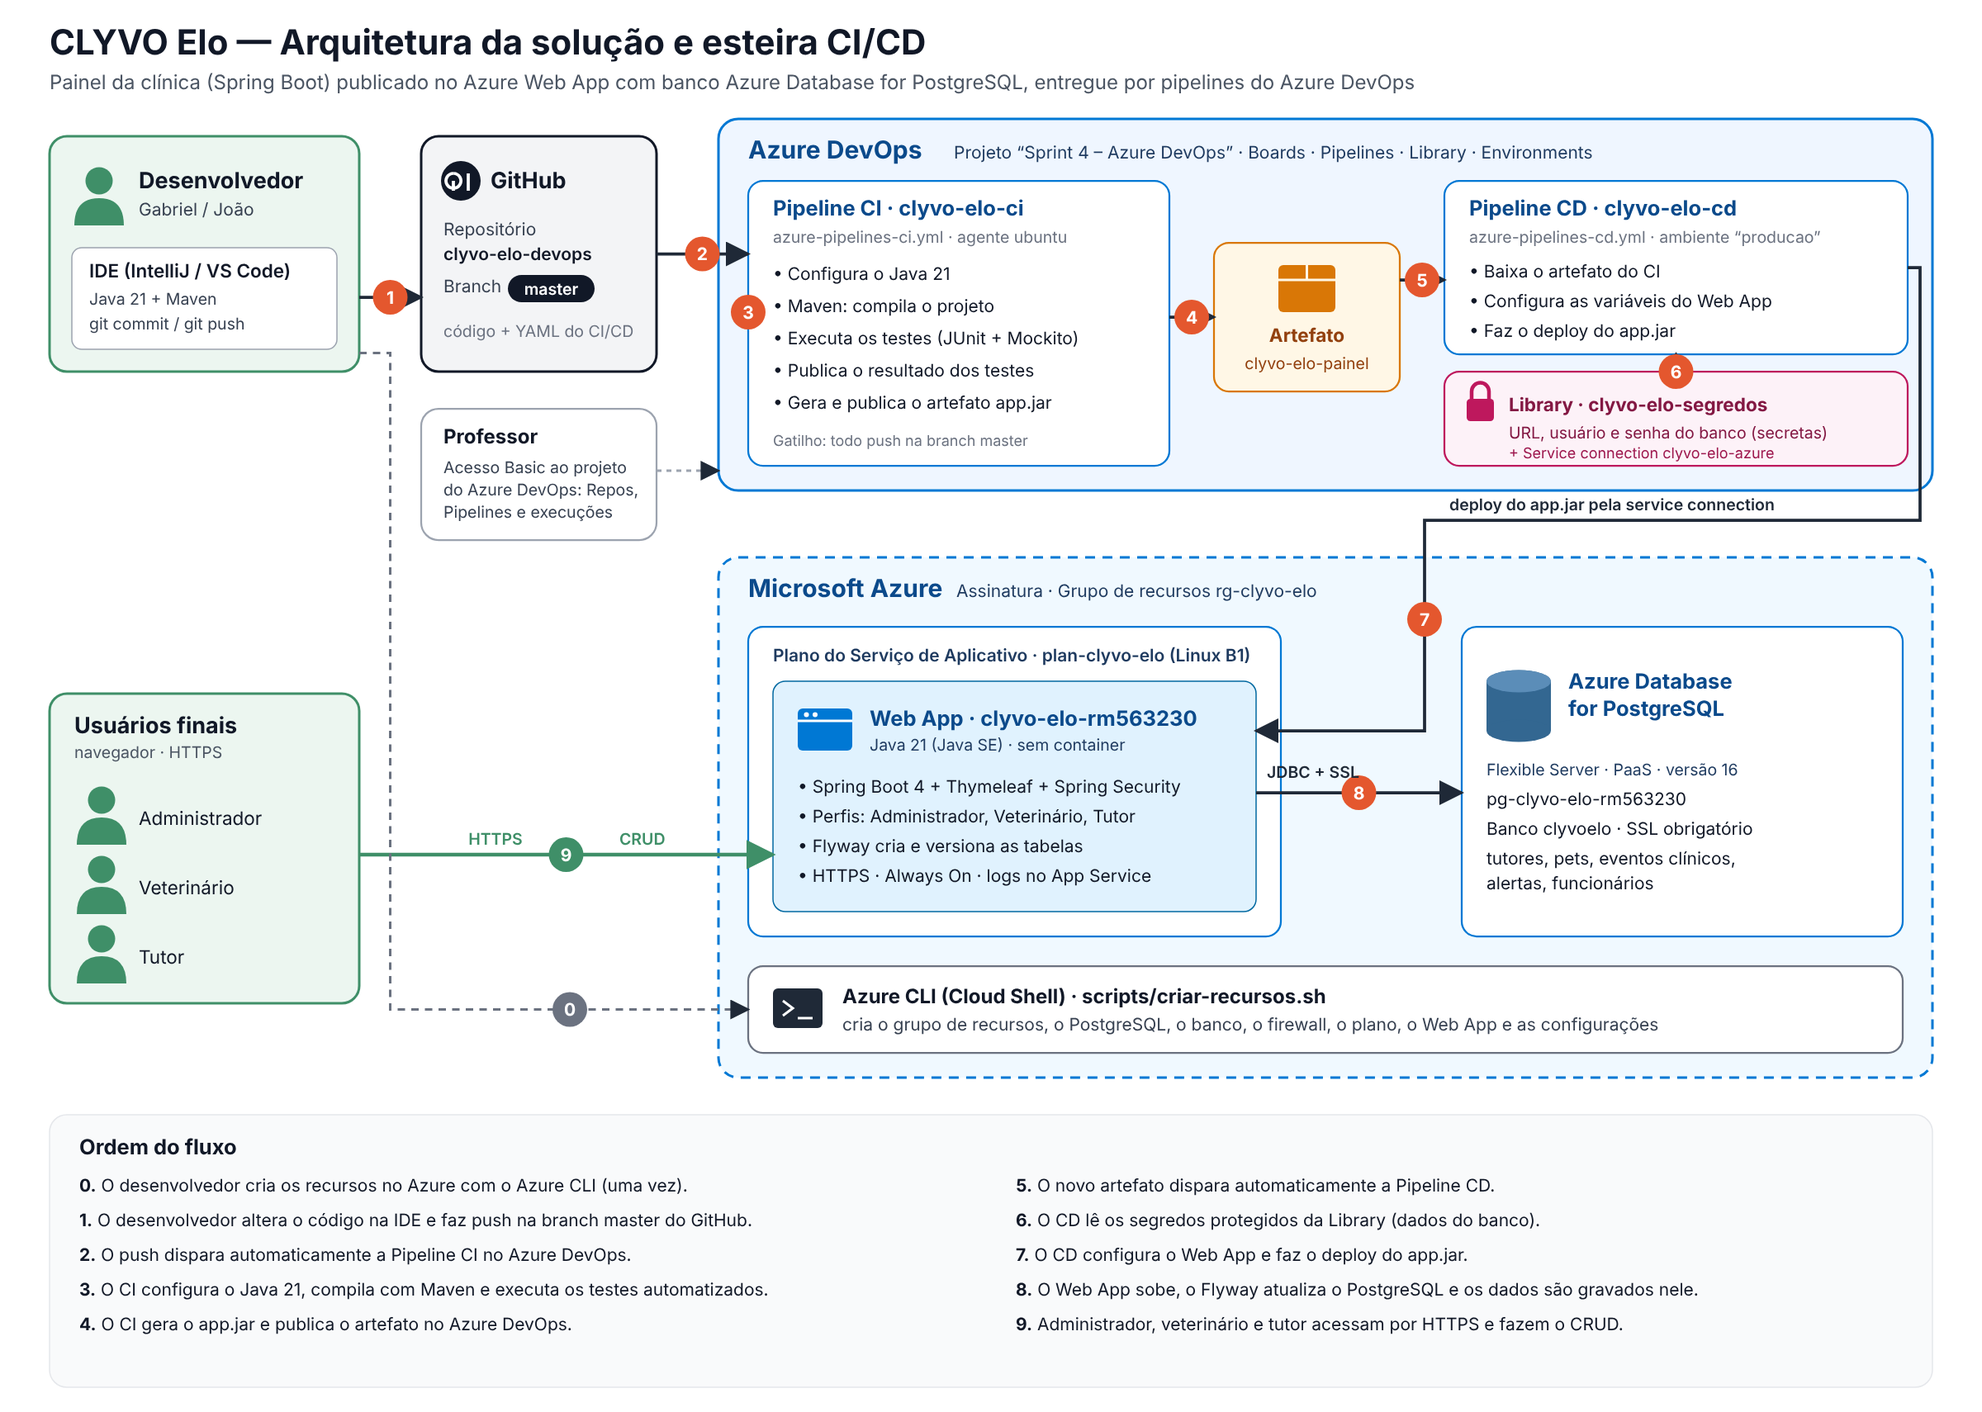
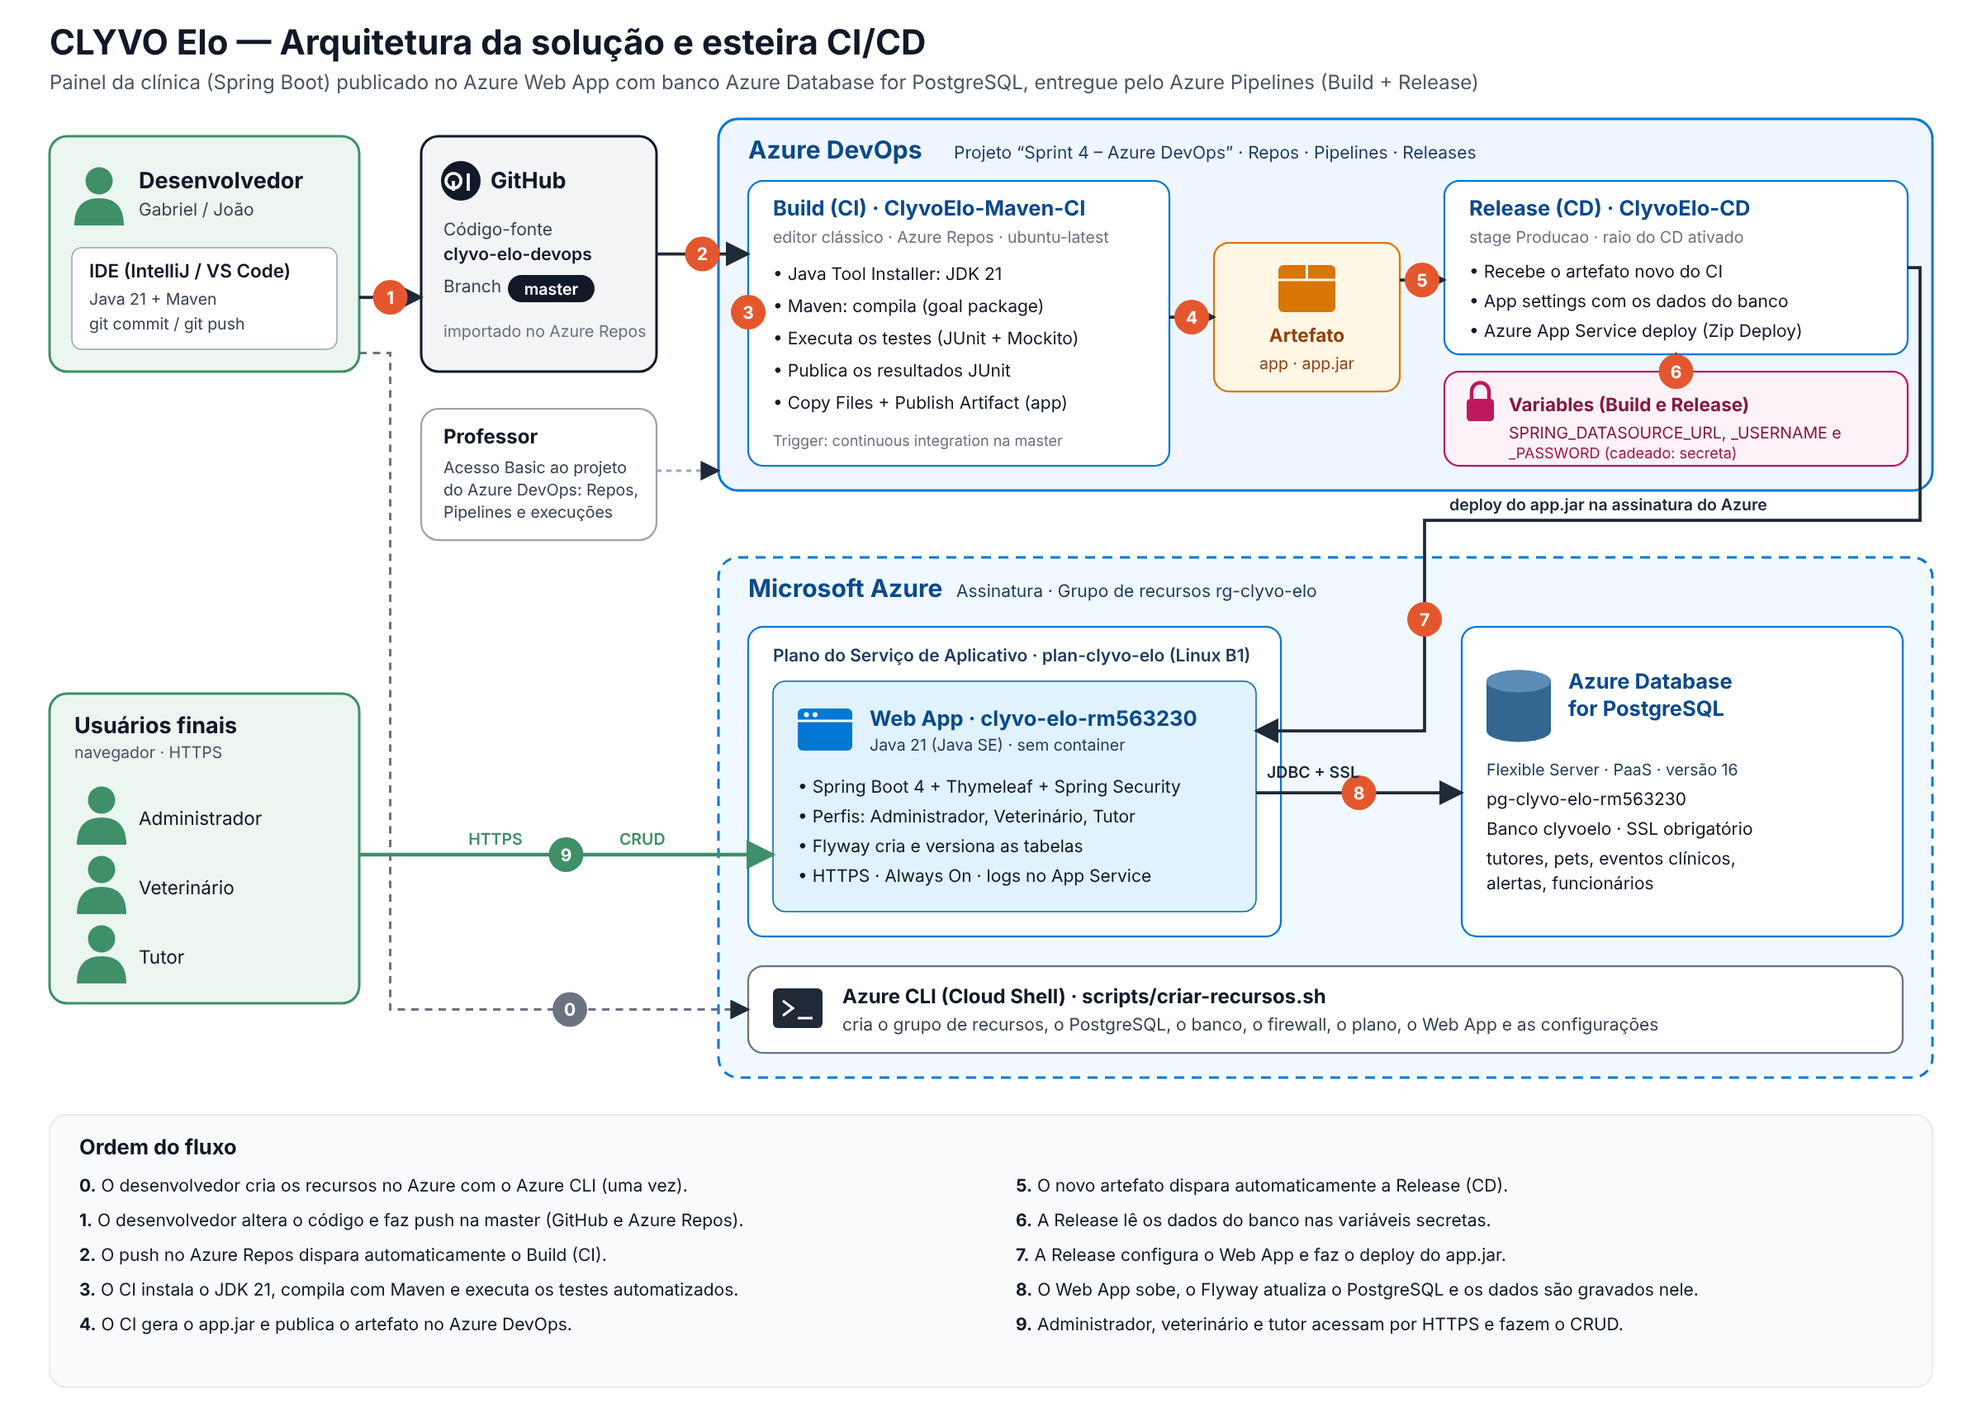
Troca as pipelines YAML pelo Build e pela Release do editor clássico e gera o pacote como app.jar
Claude-Session: https://claude.ai/code/session_01YQyMz48TMSNCDBcRRPvN6h

diff --git a/README.md b/README.md
@@ -2,7 +2,7 @@
 
 Entrega da disciplina de **DevOps Tools & Cloud Computing (Sprint 4)** do Challenge FIAP 2026, proposto pela **CLYVO VET**.
 
-O painel web do CLYVO Elo, feito em **Spring Boot**, é publicado no **Azure Web App** e usa o **Azure Database for PostgreSQL** como banco em nuvem. Uma pipeline de **CI** compila, testa e publica o artefato. Uma pipeline de **CD** faz o deploy automático a cada artefato novo. As duas rodam no **Azure DevOps**.
+O painel web do CLYVO Elo, feito em **Spring Boot**, é publicado no **Azure Web App** e usa o **Azure Database for PostgreSQL** como banco em nuvem. No **Azure DevOps**, um Build de **CI** compila, testa e publica o artefato a cada push, e uma Release de **CD** faz o deploy automático a cada artefato novo.
 
 | | |
 |---|---|
@@ -51,8 +51,8 @@ As tabelas centrais da solução são **tutor → pet → evento clínico / aler
 | Build | Maven |
 | Nuvem | Azure App Service: Plano Linux B1 e Web App Java 21 (Java SE), sem container |
 | Infraestrutura | Azure CLI (Cloud Shell), em `scripts/criar-recursos.sh` |
-| CI/CD | Azure DevOps: Pipelines YAML, Library (Variable group), Service connection e Environments |
-| Código-fonte | GitHub, branch `master` |
+| CI/CD | Azure DevOps: Azure Repos, Build e Release no editor clássico, variáveis secretas |
+| Código-fonte | GitHub, importado no Azure Repos, branch `master` |
 
 ---
 
@@ -63,13 +63,13 @@ As tabelas centrais da solução são **tutor → pet → evento clínico / aler
 | Nº | Etapa | Onde acontece |
 |---|---|---|
 | 0 | Criação dos recursos no Azure (uma vez) | Azure CLI no Cloud Shell |
-| 1 | O desenvolvedor altera o código e faz push na `master` | IDE e GitHub |
-| 2 | O push dispara a pipeline de CI | Azure DevOps, pipeline `clyvo-elo-ci` |
-| 3 | O CI configura o Java 21, compila com Maven e roda os testes | Agente Ubuntu do Azure Pipelines |
-| 4 | O CI publica o resultado dos testes e o artefato `app.jar` | Azure DevOps (aba Tests e Artifacts) |
-| 5 | O artefato novo dispara a pipeline de CD | Azure DevOps, pipeline `clyvo-elo-cd` |
-| 6 | O CD lê os dados do banco nas variáveis secretas | Library, Variable group `clyvo-elo-segredos` |
-| 7 | O CD configura o Web App e faz o deploy do `app.jar` | Service connection `clyvo-elo-azure` e Azure Web App |
+| 1 | O desenvolvedor altera o código e faz push na `master` | IDE, GitHub e Azure Repos |
+| 2 | O push no Azure Repos dispara o Build (CI) | Azure Pipelines, pipeline `ClyvoElo-Maven-CI` |
+| 3 | O CI instala o JDK 21, compila com Maven e roda os testes | Agente `ubuntu-latest` do Azure Pipelines |
+| 4 | O CI publica o resultado dos testes e o artefato `app` com o `app.jar` | Azure DevOps (abas Tests e Artifacts) |
+| 5 | O artefato novo dispara a Release (CD) | Azure Pipelines → Releases, `ClyvoElo-CD` |
+| 6 | A Release lê os dados do banco nas variáveis secretas | Aba Variables da Release |
+| 7 | A Release configura o Web App e faz o deploy do `app.jar` | Task Azure App Service deploy e Azure Web App |
 | 8 | O Web App sobe e o Flyway atualiza o banco | Azure Web App e Azure Database for PostgreSQL |
 | 9 | Os usuários acessam por HTTPS e fazem o CRUD | Navegador |
 
@@ -78,14 +78,13 @@ As tabelas centrais da solução são **tutor → pet → evento clínico / aler
 ## 3. Estrutura do repositório
 
 ```
-azure-pipelines-ci.yml     pipeline de CI: build, testes e artefato
-azure-pipelines-cd.yml     pipeline de CD: deploy no Azure Web App
 script_bd.sql              DDL das tabelas com comentários
 scripts/
   criar-recursos.sh        criação dos recursos no Azure com Azure CLI
   excluir-recursos.sh      remoção dos recursos ao final
   consultas-crud.sql       SELECTs usados para comprovar o CRUD no banco
 docs/arquitetura.png       diagrama da arquitetura e do fluxo CI/CD
+pom.xml                    build Maven (gera target/app.jar)
 src/main/java              aplicação Spring Boot
 src/main/resources/db/migration   migrações Flyway (as mesmas tabelas do script_bd.sql)
 src/test/java              testes automatizados executados no CI
@@ -113,33 +112,46 @@ src/test/java              testes automatizados executados no CI
 
 ## 5. Pipelines
 
-### CI — `azure-pipelines-ci.yml` (pipeline `clyvo-elo-ci`)
+As pipelines são montadas no **editor clássico** do Azure Pipelines: um **Build** para o CI e uma **Release** para o CD. O código fica no **Azure Repos**, importado deste repositório do GitHub, na branch `master`.
 
-- **Gatilho:** todo push na branch `master`.
-- **Agente:** `ubuntu-latest`, hospedado pela Microsoft.
+### CI — Build `ClyvoElo-Maven-CI`
 
-| Etapa | O que faz |
+- **Origem:** Azure Repos Git, repositório `clyvo-elo-devops`, branch `master`.
+- **Agente:** pool Azure Pipelines, `ubuntu-latest`.
+- **Trigger:** *Enable continuous integration* na branch `master`. Todo push dispara o build.
+
+| Task | Configuração | O que faz |
+|---|---|---|
+| Java tool installer | JDK 21, x64, Pre-installed | Deixa o agente com o Java 21 que o projeto usa |
+| Maven | POM `pom.xml`, goal `package`, JUnit `**/surefire-reports/TEST-*.xml`, título *Testes do painel CLYVO Elo* | Compila, executa os testes automatizados e empacota o `app.jar`. Se um teste falhar, o build para |
+| Copy Files | Contents `**/target/app.jar`, Target `$(build.artifactstagingdirectory)` | Separa o pacote da aplicação |
+| Publish Artifact | Path `$(build.artifactstagingdirectory)`, artifact name `app` | Publica o artefato no Azure DevOps |
+
+### CD — Release `ClyvoElo-CD`
+
+- **Template:** Azure App Service deployment, stage **Producao**.
+- **Artefato:** Build `ClyvoElo-Maven-CI`, versão Latest, com o **Continuous deployment trigger** (raio) ativado. Cada artefato novo gera uma Release.
+- **Agente:** pool Azure Pipelines, `ubuntu-latest`.
+
+| Configuração da task Azure App Service deploy | Valor |
 |---|---|
-| Configura o Java 21 | Seleciona o JDK 21 do agente |
-| Compila e executa os testes automatizados | `mvn clean package`: compila e roda os testes JUnit. Se um teste falhar, a pipeline para e nada é publicado |
-| Publica o resultado dos testes | Os relatórios do Surefire vão para a aba **Tests** da execução |
-| Separa o pacote e renomeia para `app.jar` | Copia o `.jar` gerado para a área de artefatos |
-| Publica o artefato no Azure DevOps | Publica o artefato `clyvo-elo-painel` na execução |
-
-### CD — `azure-pipelines-cd.yml` (pipeline `clyvo-elo-cd`)
-
-- **Gatilho:** conclusão com sucesso do `clyvo-elo-ci` na `master`, ou seja, um artefato novo (`resources.pipelines` com `trigger`).
-- **Ambiente:** `producao`, onde o Azure DevOps guarda o histórico de deploys.
-
-| Etapa | O que faz |
-|---|---|
-| Baixa o artefato gerado pelo CI | Baixa o `app.jar` da execução de CI que disparou o CD |
-| Configura as variáveis de ambiente do Web App | Grava no Web App a URL, o usuário e a senha do banco, lidos das variáveis secretas |
-| Faz o deploy do `app.jar` no Web App | Publica o pacote no Web App Java 21 pela service connection |
+| Azure subscription | a assinatura, autorizada pelo botão **Authorize** |
+| App type | Web App on Linux |
+| App Service name | `clyvo-elo-rm563230` |
+| Package or folder | `$(System.DefaultWorkingDirectory)/**/*.jar` |
+| Startup command | `java -jar /home/site/wwwroot/app.jar` |
+| App settings | `-SPRING_DATASOURCE_URL "$(SPRING_DATASOURCE_URL)" -SPRING_DATASOURCE_USERNAME "$(SPRING_DATASOURCE_USERNAME)" -SPRING_DATASOURCE_PASSWORD "$(SPRING_DATASOURCE_PASSWORD)"` |
+| Deployment method | Zip Deploy |
 
 ### Variáveis protegidas
 
-Nenhum usuário, senha ou token fica no código. Os dados do banco ficam no Variable group **`clyvo-elo-segredos`** (Pipelines → Library), com a senha marcada como **secreta**: ela aparece como `***` nos logs. O acesso ao Azure é feito pela **service connection** `clyvo-elo-azure`, sem credencial no repositório. No código, a aplicação lê as variáveis de ambiente `SPRING_DATASOURCE_URL`, `SPRING_DATASOURCE_USERNAME` e `SPRING_DATASOURCE_PASSWORD`.
+Nenhum usuário, senha ou token fica no código. Os dados do banco ficam na aba **Variables** do Build e da Release, com a senha marcada pelo **cadeado** como secreta: ela aparece como `***` nos logs. A Release repassa esses valores ao Web App pelas **App settings**. A aplicação lê as variáveis de ambiente `SPRING_DATASOURCE_URL`, `SPRING_DATASOURCE_USERNAME` e `SPRING_DATASOURCE_PASSWORD`.
+
+| Variável | Valor | Secreta |
+|---|---|---|
+| `SPRING_DATASOURCE_URL` | `jdbc:postgresql://pg-clyvo-elo-rm563230.postgres.database.azure.com:5432/clyvoelo?sslmode=require` | Não |
+| `SPRING_DATASOURCE_USERNAME` | `clyvoadmin` | Não |
+| `SPRING_DATASOURCE_PASSWORD` | senha do banco | **Sim** |
 
 ---
 
@@ -149,17 +161,19 @@ Nenhum usuário, senha ou token fica no código. Os dados do banco ficam no Vari
 
 - Assinatura do Azure ativa (por exemplo, Azure for Students)
 - Organização no Azure DevOps com execução de pipelines liberada
-- Conta no GitHub com acesso a este repositório
+- Conta no GitHub
 
 ### 6.2 Criar os recursos no Azure (Azure CLI)
 
 No [Portal do Azure](https://portal.azure.com), abra o **Cloud Shell** em modo **Bash** e rode:
 
 ```bash
+az account show
 git clone https://github.com/GabrielCabralmm/clyvo-elo-devops.git
-cd clyvo-elo-devops
+cd clyvo-elo-devops/scripts
+chmod +x criar-recursos.sh
 export MEU_IP=<seu IP público, para consultar o banco do seu computador>
-bash scripts/criar-recursos.sh
+./criar-recursos.sh
 ```
 
 O script pede a senha do administrador do banco e cria, em ordem:
@@ -176,34 +190,63 @@ O script pede a senha do administrador do banco e cria, em ordem:
 
 Para usar outra região, rode `export LOCAL=eastus2` antes do script. O padrão é `brazilsouth`.
 
-### 6.3 Configurar o Azure DevOps
+### 6.3 Criar o projeto no Azure DevOps
 
-1. **Criar o projeto:** em Azure DevOps → **New project**:
+1. Em **Organization settings → Pipelines → Settings**, deixe **desligadas** as opções *Disable creation of classic build pipelines* e *Disable creation of classic release pipelines*.
+2. Em **New project**:
    - **Project name:** `Sprint 4 – Azure DevOps`
    - **Description:** `Projeto para entrega da Sprint 4 do professor <nome do professor>` e, nas linhas seguintes, `RM563230 - Gabriel Cabral Mendes Mariano - 2TDSPO` e `RM566063 - João Victor Santana dos Santos - 2TDSPX`
    - **Visibility:** Private · **Version control:** Git · **Work item process:** Scrum
-2. **Convidar o professor:** em Organization settings → **Users** → **Add users**, coloque o e-mail do professor com **Access level: Basic** e adicione-o ao projeto como **Contributor**.
-3. **Service connection:** em Project settings → **Service connections** → **New** → **Azure Resource Manager** → **Workload Identity federation (automatic)**:
-   - **Subscription:** a sua assinatura · **Resource group:** `rg-clyvo-elo`
-   - **Name:** `clyvo-elo-azure`
-   - Marque **Grant access permission to all pipelines**.
-4. **Variáveis protegidas:** em Pipelines → **Library** → **+ Variable group**:
-   - **Nome:** `clyvo-elo-segredos`
-   - `SPRING_DATASOURCE_URL` = `jdbc:postgresql://pg-clyvo-elo-rm563230.postgres.database.azure.com:5432/clyvoelo?sslmode=require`
-   - `SPRING_DATASOURCE_USERNAME` = `clyvoadmin`
-   - `SPRING_DATASOURCE_PASSWORD` = a senha do banco, com o **cadeado** clicado para ficar secreta
-   - Em **Pipeline permissions**, libere o grupo para as pipelines (ou autorize na primeira execução).
-5. **Pipeline de CI:** Pipelines → **New pipeline** → **GitHub (YAML)** → este repositório → **Existing Azure Pipelines YAML file** → `/azure-pipelines-ci.yml` → **Save**. Depois, em **⋮ → Rename/move**, use o nome **`clyvo-elo-ci`**.
-6. **Pipeline de CD:** repita o passo 5 com `/azure-pipelines-cd.yml` e o nome **`clyvo-elo-cd`**. O nome do CI precisa ser exatamente `clyvo-elo-ci`, porque é ele que dispara o CD.
-7. **Primeira execução:** rode o `clyvo-elo-ci`. Ao terminar, o `clyvo-elo-cd` começa sozinho. Na primeira vez, clique em **Permit** para liberar o Variable group, a service connection e o ambiente `producao`.
+3. **Importar o código:** em Repos → Files → **Import repository**, escolha o tipo Git e a Clone URL `https://github.com/GabrielCabralmm/clyvo-elo-devops.git`.
+4. **Convidar o professor:** em Organization settings → **Users** → **Add users**, coloque o e-mail do professor com **Access level: Basic** e adicione-o ao projeto `Sprint 4 – Azure DevOps` no grupo **Contributors**.
 
-### 6.4 Testar a esteira
+### 6.4 Criar o Build (CI)
 
-1. Altere um texto visível no código, por exemplo o título da tela de login em `src/main/resources/templates/login.html`.
-2. Faça `git commit` e `git push` na `master`.
-3. Em Pipelines, o `clyvo-elo-ci` inicia sozinho. Confira os testes na aba **Tests** e o artefato `clyvo-elo-painel` em **Artifacts**.
-4. Ao terminar o CI, o `clyvo-elo-cd` inicia sozinho e faz o deploy.
-5. Acesse https://clyvo-elo-rm563230.azurewebsites.net/login e confira a alteração. A primeira resposta depois do deploy pode levar cerca de 1 minuto.
+1. Pipelines → **Create Pipeline** → **Use the classic editor**.
+2. Source **Azure Repos Git**, repositório `clyvo-elo-devops`, branch `master` → **Continue**.
+3. Template **Maven** → **Apply**.
+4. Name `ClyvoElo-Maven-CI`, Agent pool **Azure Pipelines**, Agent specification **ubuntu-latest**.
+5. No **Agent job 1**, clique em **+**, adicione a task **Java tool installer** e arraste-a para antes da task Maven. Configure **JDK version 21**, **x64** e **Pre-installed**.
+6. Task **Maven**: POM `pom.xml`, goal `package`, marque *Publish to Azure Pipelines* com Test results files `**/surefire-reports/TEST-*.xml` e título `Testes do painel CLYVO Elo`. Em **JDK version**, deixe **Default**, que usa o JDK 21 instalado no passo anterior.
+7. Task **Copy Files**: Contents `**/target/app.jar`, Target Folder `$(build.artifactstagingdirectory)`.
+8. Task **Publish Artifact**: Path `$(build.artifactstagingdirectory)`, Artifact name `app`.
+9. Aba **Variables**: crie `SPRING_DATASOURCE_URL`, `SPRING_DATASOURCE_USERNAME` e `SPRING_DATASOURCE_PASSWORD`, com o cadeado na senha.
+10. Aba **Triggers**: marque **Enable continuous integration** com a branch `master`.
+11. **Save & queue** → comentário `Criação do primeiro CI`, branch `master` → **Save and run**. Confira o build com **Success**, a aba **Tests** e o artefato `app`.
+
+### 6.5 Criar a Release (CD)
+
+1. Pipelines → **Releases** → **New pipeline** → template **Azure App Service deployment** → **Apply**.
+2. Nome da pipeline `ClyvoElo-CD` e nome do stage `Producao`.
+3. **Add an artifact:** Source type Build, projeto `Sprint 4 – Azure DevOps`, source `ClyvoElo-Maven-CI`, versão Latest → **Add**.
+4. Clique no **raio** do artefato e ative o **Continuous deployment trigger**. Deixe o *Pull request trigger* desligado.
+5. No stage, clique em **1 job, 1 task**:
+   - **Azure subscription:** escolha a assinatura e clique em **Authorize**
+   - **App type:** Web App on Linux · **App service name:** `clyvo-elo-rm563230`
+   - **Agent job:** pool Azure Pipelines, `ubuntu-latest`
+6. Task **Deploy Azure App Service**:
+   - **Package or folder:** `$(System.DefaultWorkingDirectory)/**/*.jar`
+   - **Startup command:** `java -jar /home/site/wwwroot/app.jar`
+   - **Application and Configuration Settings → App settings:** cole em uma linha `-SPRING_DATASOURCE_URL "$(SPRING_DATASOURCE_URL)" -SPRING_DATASOURCE_USERNAME "$(SPRING_DATASOURCE_USERNAME)" -SPRING_DATASOURCE_PASSWORD "$(SPRING_DATASOURCE_PASSWORD)"`
+   - **Additional Deployment Options → Deployment method:** Zip Deploy, se a opção aparecer
+7. Aba **Variables** da Release: crie as mesmas três variáveis, com o cadeado na senha.
+8. **Save** e depois **Create release** → descrição `Deploy em Producao` → **Create**. Acompanhe os logs do stage até o **Succeeded**.
+9. Abra https://clyvo-elo-rm563230.azurewebsites.net. O primeiro acesso depois do deploy pode levar cerca de 1 minuto.
+
+### 6.6 Testar a esteira completa
+
+1. No computador, clone o repositório e configure o push para o GitHub e para o Azure Repos ao mesmo tempo:
+   ```bash
+   git clone https://github.com/GabrielCabralmm/clyvo-elo-devops.git
+   cd clyvo-elo-devops
+   git remote set-url --add --push origin https://github.com/GabrielCabralmm/clyvo-elo-devops.git
+   git remote set-url --add --push origin <URL de clone do Azure Repos>
+   ```
+2. Altere um texto visível, por exemplo o título da tela de login em `src/main/resources/templates/login.html`.
+3. `git commit -am "Altera o título da tela de login"` e `git push`.
+4. Em Pipelines, o `ClyvoElo-Maven-CI` inicia sozinho. Confira os testes na aba **Tests** e o artefato `app`.
+5. Ao terminar o CI, uma nova Release do `ClyvoElo-CD` é criada sozinha e faz o deploy.
+6. Abra a aplicação no Web App e confira o novo título.
 
 ---
 
@@ -249,4 +292,4 @@ Acesse http://localhost:8080. Para rodar só os testes, use `mvn test`.
 
 ## 9. Remover os recursos
 
-Depois da avaliação, rode `bash scripts/excluir-recursos.sh` no Cloud Shell para apagar o grupo de recursos e parar a cobrança.
+Depois da avaliação, rode `./excluir-recursos.sh` na pasta `scripts`, no Cloud Shell, para apagar o grupo de recursos e parar a cobrança.
